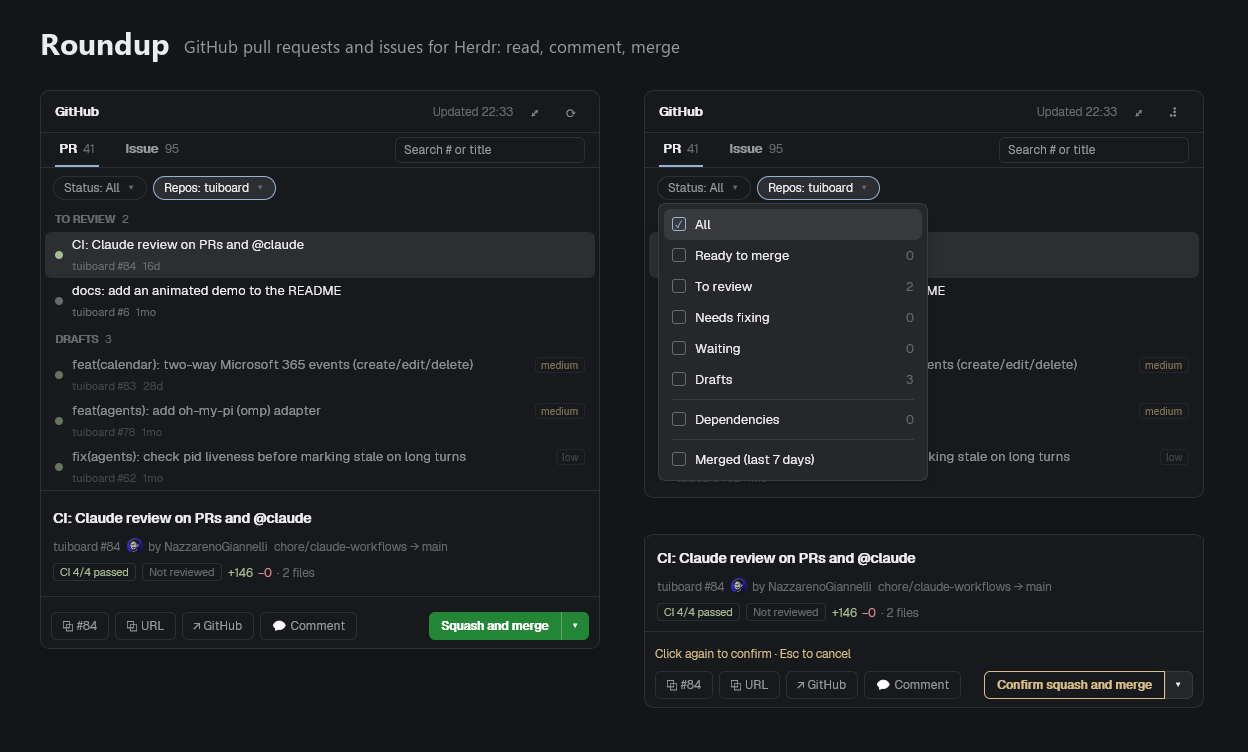
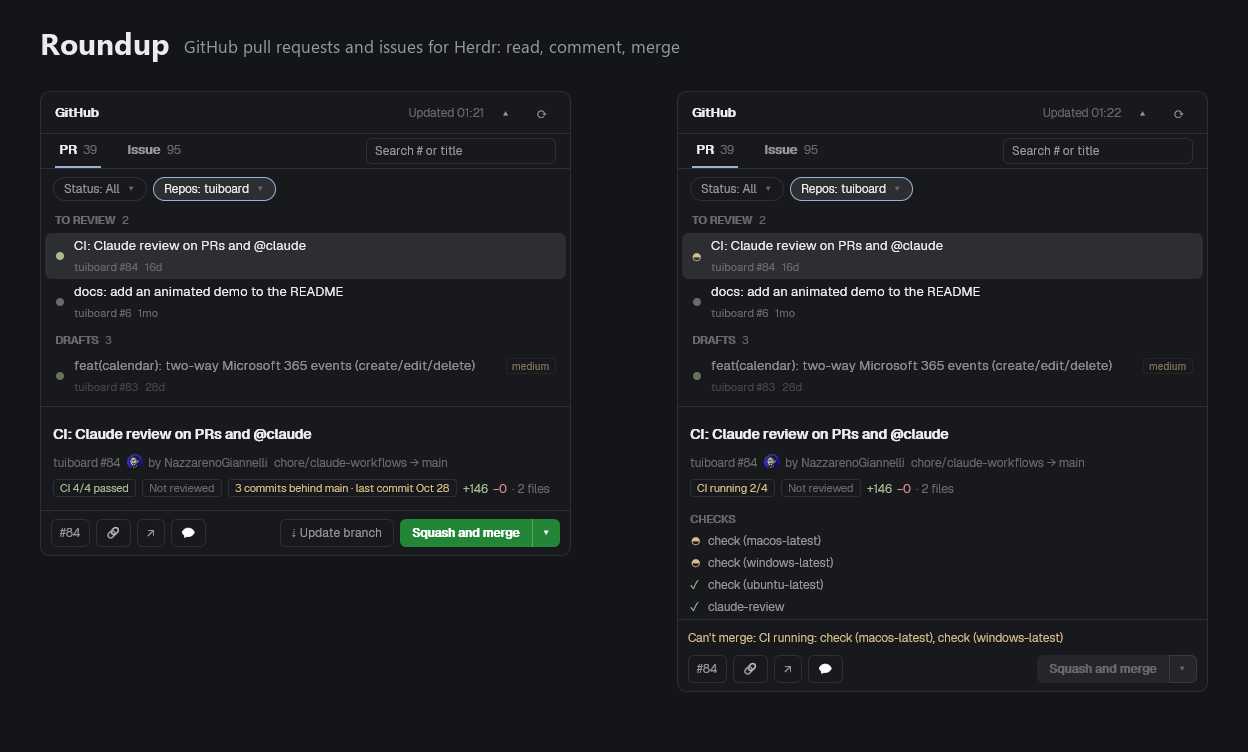
New preview: a branch behind its base with Update branch, and CI followed live (turning circle, CHECKS); CHECKS uses the same turning circle as the list

diff --git a/mods/roundup/detail.js b/mods/roundup/detail.js
@@ -5,7 +5,7 @@ import { avatarPath } from "./avatars.js";
 import { v_flex, h_flex, TextView } from "gpui-base";
 import { truncated } from "./model.js";
 import { shortRepo, ago } from "./browse.js";
-import { MERGED_COLOR, spinner } from "./list.js";
+import { MERGED_COLOR, spinner, ciSpinner } from "./list.js";
 import { isReviewer } from "./config.js";
 import { behindOf } from "./actions.js";
 import { behindLine } from "./update-logic.js";
@@ -65,7 +65,7 @@ function checksList(p, t, detail) {
   return v_flex().flex_none().gap(3)
     .child(div().text_size(11).font_semibold().text_color(t.dim).child("CHECKS"))
     .children(rows.map(r => h_flex().gap(6).items_center().text_size(11.5).min_w(0)
-      .child(checkMark(r.state) === null ? spinner(t).w(12).text_color(color(r.state))
+      .child(checkMark(r.state) === null ? ciSpinner(t).w(12)
         : div().w(12).flex_none().text_color(color(r.state)).child(checkMark(r.state)))
       .child(div().flex_1().min_w(0).truncate().text_color(r.state === "failure" ? t.foreground : t.muted).child(r.name))));
 }

diff --git a/mods/roundup/list.js b/mods/roundup/list.js
@@ -128,7 +128,7 @@ const SPINNER = ["⠋", "⠙", "⠹", "⠸", "⠼", "⠴", "⠦", "⠧", "⠇", 
 export const spinner = (t) => div().w(14).flex_none().text_color(t.muted).frames(SPINNER, 90);
 // The row's mark while CI runs: an amber circle that turns, in the dot's place (the same 10 px slot).
 const CI_FRAMES = ["◐", "◓", "◑", "◒"];
-const ciSpinner = (t) => div().w(10).flex_none().flex().items_center().justify_center().text_size(11).text_color(t.ansi3).frames(CI_FRAMES, 160);
+export const ciSpinner = (t) => div().w(10).flex_none().flex().items_center().justify_center().text_size(11).text_color(t.ansi3).frames(CI_FRAMES, 160);
 
 export function refreshButton(p, t) {
   return div().id("gh-refresh").w(28).h(26).flex().items_center().justify_center().rounded(6).cursor_pointer().flex_none()

diff --git a/RECIPE.md b/RECIPE.md
@@ -124,7 +124,7 @@ Two mod folders, copied to `~/.config/herdr-app/mods/`. No layout and no `keys.j
 - `config.json` with `{ "owners": ["not a name"] }` shows an amber line `config.json: "owners" has a name that is not a GitHub login: not a name, using defaults`. With `{ "owners": ["acme"] }` only that owner's items are listed.
 - With a `labels.ready` label set to `ship-it`, a pull request carrying it appears in Ready to merge.
 - With dry run on (open `roundup-dry`, see `GitHub dry run ON`): one click on the merge button turns it into `Confirm ...` and shows `Click again to confirm · Esc to cancel`; a second click shows a toast `Dry run: would merge owner/repo#n`, removes the row, and the shared `roundup.dryLog` holds `gh pr merge <n> --repo <owner/repo> --squash --match-head-commit <sha>` (or `--merge`). Esc after the first click puts the label back and nothing is logged.
-- A pull request whose CI is running shows an amber circle that turns (`◐ ◓ ◑ ◒`, 160 ms a frame, 11px, in the dot's 10px slot) instead of its dot. Selecting it shows a `CHECKS` list under the header: `✗` failed (`ansi1`), a spinner for the running ones (`ansi3`), `✓` passed (`ansi2`), `–` skipped (`dim`), 11.5px. Every 15 seconds the detail is read again without a `Refreshing…` line; when the last check finishes, the list disappears, the CI chip turns green or red, and the row's dot follows within seconds.
+- A pull request whose CI is running shows an amber circle that turns (`◐ ◓ ◑ ◒`, 160 ms a frame, 11px, in the dot's 10px slot) instead of its dot. Selecting it shows a `CHECKS` list under the header: `✗` failed (`ansi1`), the turning amber circle for the running ones (`ansi3`), `✓` passed (`ansi2`), `–` skipped (`dim`), 11.5px. Every 15 seconds the detail is read again without a `Refreshing…` line; when the last check finishes, the list disappears, the CI chip turns green or red, and the row's dot follows within seconds.
 - Selecting a pull request whose branch is behind its base adds an `ansi3` chip `<n> commits behind <base> · last commit <Mon D>` to the header and `⇣ Update branch` to the bar. With dry run on, two clicks show a toast `Dry run: would update owner/repo#n`, and `roundup.dryLog` holds `gh api -X PUT repos/<owner/repo>/pulls/<n>/update-branch -f expected_head_sha=<sha>`. Without dry run the toast says `Updated owner/repo#n`, and a few seconds later the detail reloads with the new commit and CI running. A draft, a pull request with conflicts or a Dependabot one shows neither.
 - On a pull request whose CI is red, the bar says `Can't merge: CI failing: <check names>` and the button is greyed.
 - `Ctrl+F` focuses the search field; typing `#130` narrows the list to that number and `Esc` clears it.

diff --git a/README.md b/README.md
@@ -2,7 +2,7 @@
 
 GitHub pull requests and issues for Herdr: read, comment, merge.
 
-![Roundup: the list grouped by whose move it is, the Status menu, and a merge waiting for its second click](preview.png)
+![Roundup: on the left a pull request whose branch is behind, with Update branch next to the merge button; on the right the same pull request with its CI running, followed live](preview.png)
 
 Roundup is a panel for the [Herdr](https://herdr.dev) desktop app. It lists the open pull requests and issues of the GitHub users and organizations you pick, across all their repositories at once. Select one to read its description and conversation. A one-row bar under the detail copies the number or URL, opens the page on GitHub, posts a comment, brings a branch that fell behind up to date, and merges with a split button like GitHub's (two clicks: the first arms it, the second merges). Two dropdowns above the list, Status and Repos, narrow it down. It talks to GitHub through the `gh` command line tool, so there is no token to paste and nothing to download.
 
